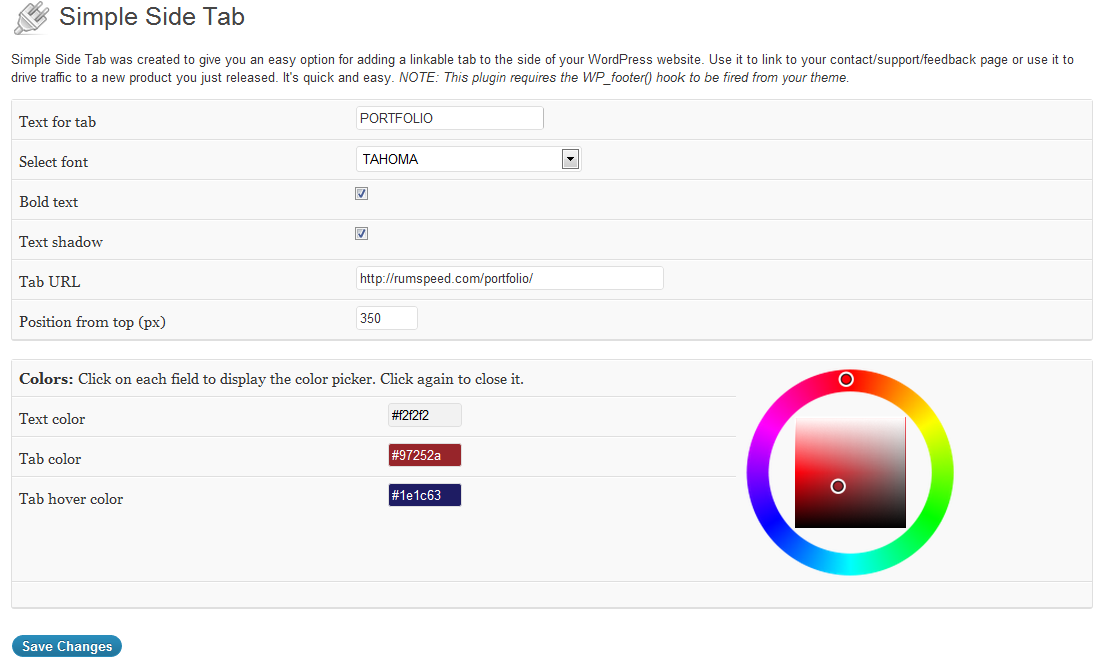
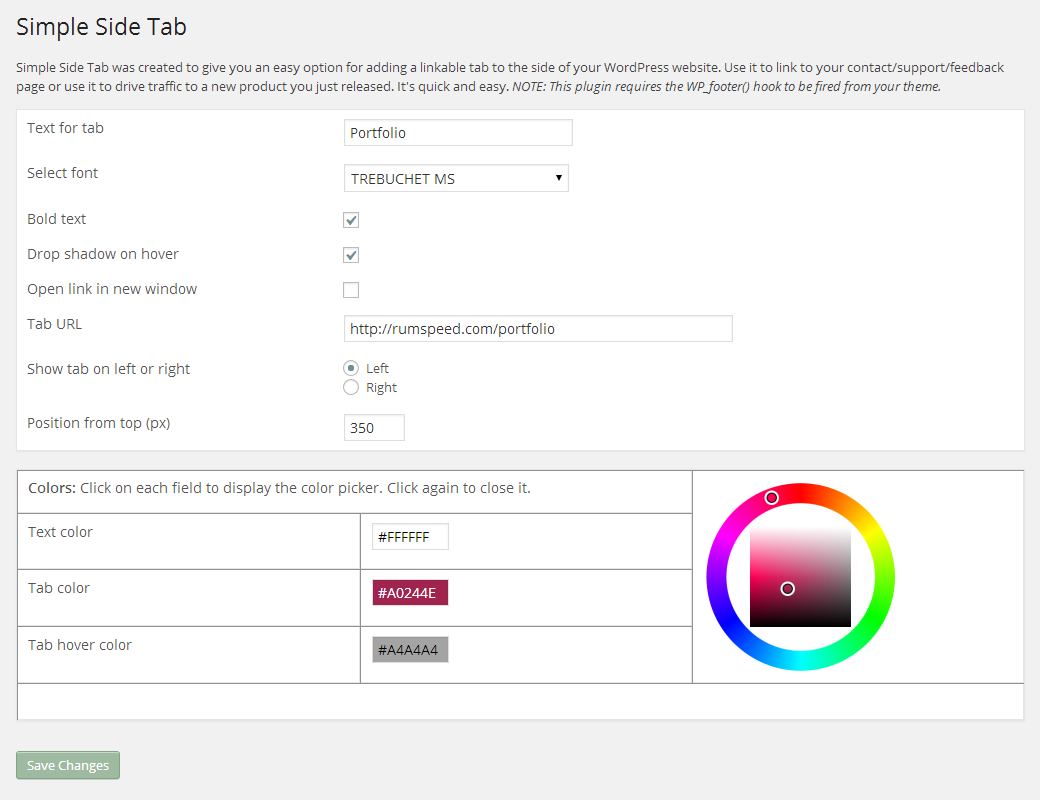
Add new feature to support displaying the tab on the right side of the browser.
git-svn-id: https://plugins.svn.wordpress.org/simple-side-tab/trunk@871990 b8457f37-d9ea-0310-8a92-e5e31aec5664

Changed region(s): [[0.0, 0.3582, 0.8923, 0.8657], [0.0, 0.0, 0.9846, 0.3582], [0.0, 0.9254, 0.1231, 0.9851]]

diff --git a/simple_side_tab.php b/simple_side_tab.php
@@ -3,13 +3,13 @@
 Plugin Name: Simple Side Tab
 Plugin URI: http://rumspeed.com/wordpress-plugins/simple-side-tab/
 Description: Display a side tab that you can easily link to any page. Customize the tab text, font and colors. It's that simple. That's Simple Side Tab.
-Version: 1.0.0
+Version: 1.1.0
 Author: Scot Rumery
 Author URI: http://rumspeed.com/scot-rumery/
 License: GPLv2
 */
 
-/*  Copyright 2013  Scot Rumery (email : scot@rumspeed.com)
+/*  Copyright 2014  Scot Rumery (email : scot@rumspeed.com)
 
 	This program is free software; you can redistribute it and/or modify
 	it under the terms of the GNU General Public License as published by
@@ -47,7 +47,8 @@ function rum_sst_activate_plugin() {
 		'text_color'       => '#FFFFFF',
 		'tab_color'        => '#A0244E',
 		'hover_color'      => '#A4A4A4',
-		'target_blank'     => '0'
+		'target_blank'     => '0',
+		'left_right'	   => 'left'
 		);
 
 	// create field in WP_options to store all plugin data in one field
@@ -133,15 +134,46 @@ function rum_sst_body_tag_html() {
 	// fetch individual values from the plugin option variable array
 	$rum_sst_text_for_tab			= $rum_sst_plugin_option_array[ 'text_for_tab' ];
 	$rum_sst_tab_url				= $rum_sst_plugin_option_array[ 'tab_url' ];
-	$rum_sst_target_blank			= $rum_sst_plugin_option_array[ 'target_blank' ];
+
+	// this field was added after the initial release so it may not be set
+	if ( isset($rum_sst_plugin_option_array[ 'target_blank' ] ) ) {
+		$rum_sst_target_blank			= $rum_sst_plugin_option_array[ 'target_blank' ];
+	} else {
+		$rum_sst_target_blank			= '0';
+	}
+
+	// this field was added after the initial release so it may not be set
+	if ( isset($rum_sst_plugin_option_array[ 'left_right' ] ) ) {
+		$rum_sst_left_right			= $rum_sst_plugin_option_array[ 'left_right' ];
+	} else {
+		$rum_sst_left_right			= 'left';
+	}
 
 	// set the page target
 	if ($rum_sst_target_blank == '1') {
 		$rum_sst_target_blank = ' target="_blank"';
 	}
-
-	// Write HTML to render tab
-	echo '<a href="' . esc_url( $rum_sst_tab_url ) . '"' . $rum_sst_target_blank . '><div id="rum_sst_tab" class="rum_sst_contents rum_sst_left">' . esc_html( $rum_sst_text_for_tab ) . '</div></a>';
+	
+	// set side of page for tab
+	if ($rum_sst_left_right == 'right') {
+		$rum_sst_left_right_location = 'rum_sst_right';
+	}else {
+		$rum_sst_left_right_location = 'rum_sst_left';
+	}
+	
+	if(preg_match('/(?i)msie [7-8]/',$_SERVER['HTTP_USER_AGENT']))
+	{
+	    // if IE 7 or 8
+	    // Write HTML to render tab
+		echo '<a href="' . esc_url( $rum_sst_tab_url ) . '"' . $rum_sst_target_blank . '><div id="rum_sst_tab" class="rum_sst_contents less-ie-9 ' . $rum_sst_left_right_location . '">' . esc_html( $rum_sst_text_for_tab ) . '></a>';
+	}
+	else
+	{
+	   // if IE>8
+	   // Write HTML to render tab
+	   echo '<a href="' . esc_url( $rum_sst_tab_url ) . '"' . $rum_sst_target_blank . ' id="rum_sst_tab" class="rum_sst_contents ' . $rum_sst_left_right_location . '">' . esc_html( $rum_sst_text_for_tab ) . '</a>';
+	}
+	
 }
 
 
@@ -185,7 +217,21 @@ function rum_sst_options_page() {
 	$rum_sst_text_color				= $rum_sst_plugin_option_array[ 'text_color' ];
 	$rum_sst_tab_color				= $rum_sst_plugin_option_array[ 'tab_color' ];
 	$rum_sst_hover_color			= $rum_sst_plugin_option_array[ 'hover_color' ];
-	$rum_sst_target_blank			= $rum_sst_plugin_option_array[ 'target_blank' ];
+
+	// this field was added after the initial release so it may not be set
+	if ( isset($rum_sst_plugin_option_array[ 'target_blank' ] ) ) {
+		$rum_sst_target_blank			= $rum_sst_plugin_option_array[ 'target_blank' ];
+	} else {
+		$rum_sst_target_blank			= '0';
+	}
+
+	// this field was added after the initial release so it may not be set
+	if ( isset($rum_sst_plugin_option_array[ 'left_right' ] ) ) {
+		$rum_sst_left_right			= $rum_sst_plugin_option_array[ 'left_right' ];
+	} else {
+		$rum_sst_left_right			= 'left';
+	}
+
 
 ?>
 
@@ -263,10 +309,19 @@ function rum_sst_options_page() {
 
 
 		<tr valign="top">
-		<th scope="row"><label for="rum_sst_pixels_from_top">Position from top (px)</label></th>
-		<td><input maxlength="4" size="4" type="text" name="rum_sst_plugin_options[pixels_from_top]" value="<?php echo sanitize_text_field( $rum_sst_pixels_from_top ); ?>" /></td>
+		<th scope="row"><label for="rum_sst_left_right">Show tab on left or right</label></th>
+		<td>
+			<input name="rum_sst_plugin_options[left_right]" type="radio" value="left" <?php checked( 'left', $rum_sst_left_right ); ?> /> Left <br />
+			<input name="rum_sst_plugin_options[left_right]" type="radio" value="right" <?php checked( 'right', $rum_sst_left_right ); ?> /> Right		
+		</td>
 		</tr>
 
+
+		<tr valign="top">
+		<th scope="row"><label for="rum_sst_pixels_from_top">Position from top (px)</label></th>
+		<td><input maxlength="4" size="4" type="text" name="rum_sst_plugin_options[pixels_from_top]" value="<?php echo sanitize_text_field( $rum_sst_pixels_from_top ); ?>" /></td>
+		</tr>		
+		
 	</table>
 
 <BR>
@@ -343,11 +398,9 @@ function rum_sst_custom_css_hook() {
 	$rum_sst_plugin_option_array	= get_option( 'rum_sst_plugin_options' );
 
 	// fetch individual values from the plugin option variable array
-	$rum_sst_text_for_tab			= $rum_sst_plugin_option_array[ 'text_for_tab' ];
 	$rum_sst_font_family			= $rum_sst_plugin_option_array[ 'font_family' ];
 	$rum_sst_font_weight_bold		= $rum_sst_plugin_option_array[ 'font_weight_bold' ];
 	$rum_sst_text_shadow			= $rum_sst_plugin_option_array[ 'text_shadow' ];
-	$rum_sst_tab_url				= $rum_sst_plugin_option_array[ 'tab_url' ];
 	$rum_sst_pixels_from_top		= $rum_sst_plugin_option_array[ 'pixels_from_top' ];
 	$rum_sst_text_color				= $rum_sst_plugin_option_array[ 'text_color' ];
 	$rum_sst_tab_color				= $rum_sst_plugin_option_array[ 'tab_color' ];
@@ -414,14 +467,31 @@ function rum_sst_custom_css_hook() {
 	-ms-transform:rotate(270deg);
 	-o-transform:rotate(270deg);
 	transform:rotate(270deg);
-
-	<!--[if lte IE 8]>
-		/* Internet Explorer 8 and below */
-		-ms-transform:rotate(270deg) / !important;
-		*filter: progid:DXImageTransform.Microsoft.BasicImage(rotation=3);
-	<![endif]-->
-
 }
+
+.rum_sst_right {
+	right:-156px;
+	cursor: pointer;
+	-webkit-transform-origin:0 0;
+	-moz-transform-origin:0 0;
+	-o-transform-origin:0 0;
+	-ms-transform-origin:0 0;
+	-webkit-transform:rotate(90deg);
+	-moz-transform:rotate(90deg);
+	-ms-transform:rotate(90deg);
+	-o-transform:rotate(90deg);
+	transform:rotate(90deg);
+}
+
+.rum_sst_right.less-ie-9 {
+	right:-120px;
+	filter: progid:DXImageTransform.Microsoft.BasicImage(rotation=1);
+}
+
+.rum_sst_left.less-ie-9 {
+	filter: progid:DXImageTransform.Microsoft.BasicImage(rotation=3);
+}
+
 /* End Simple Side Tab Styles*/
 
 </style>
